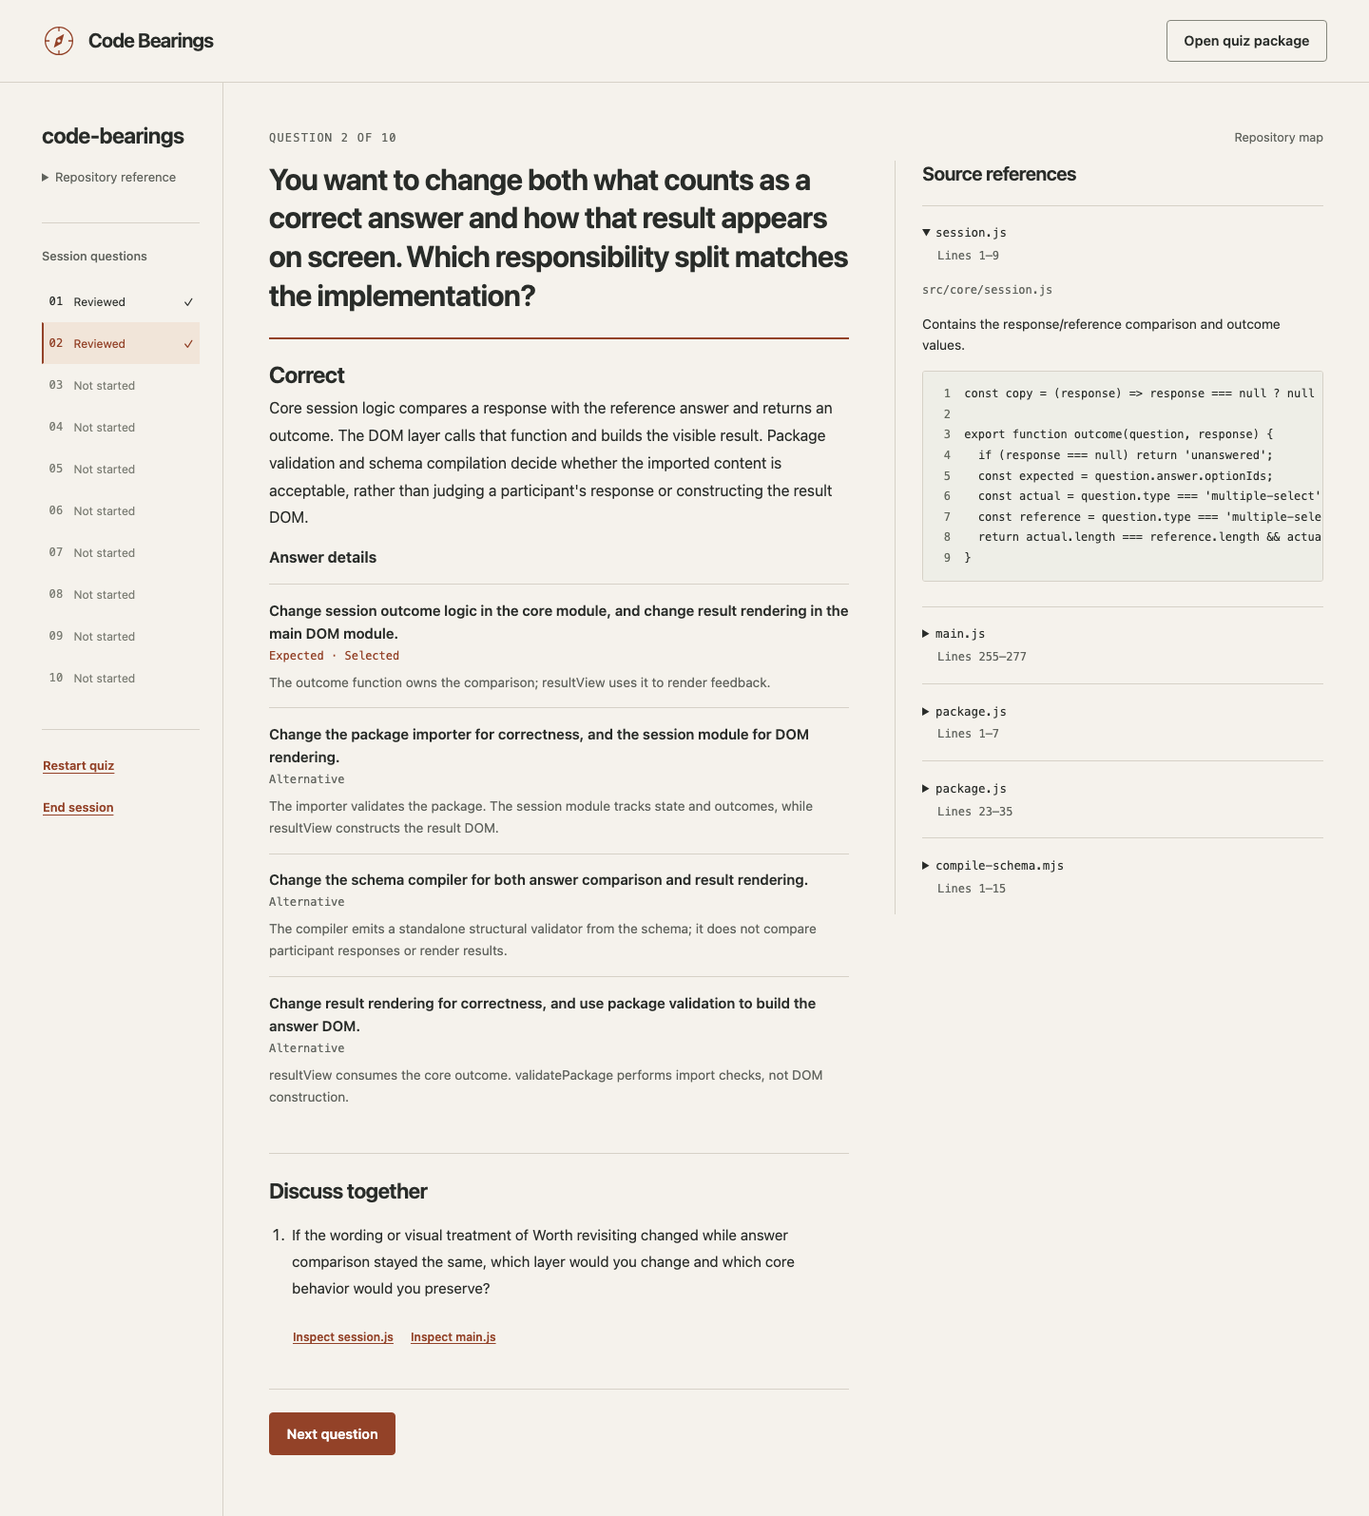
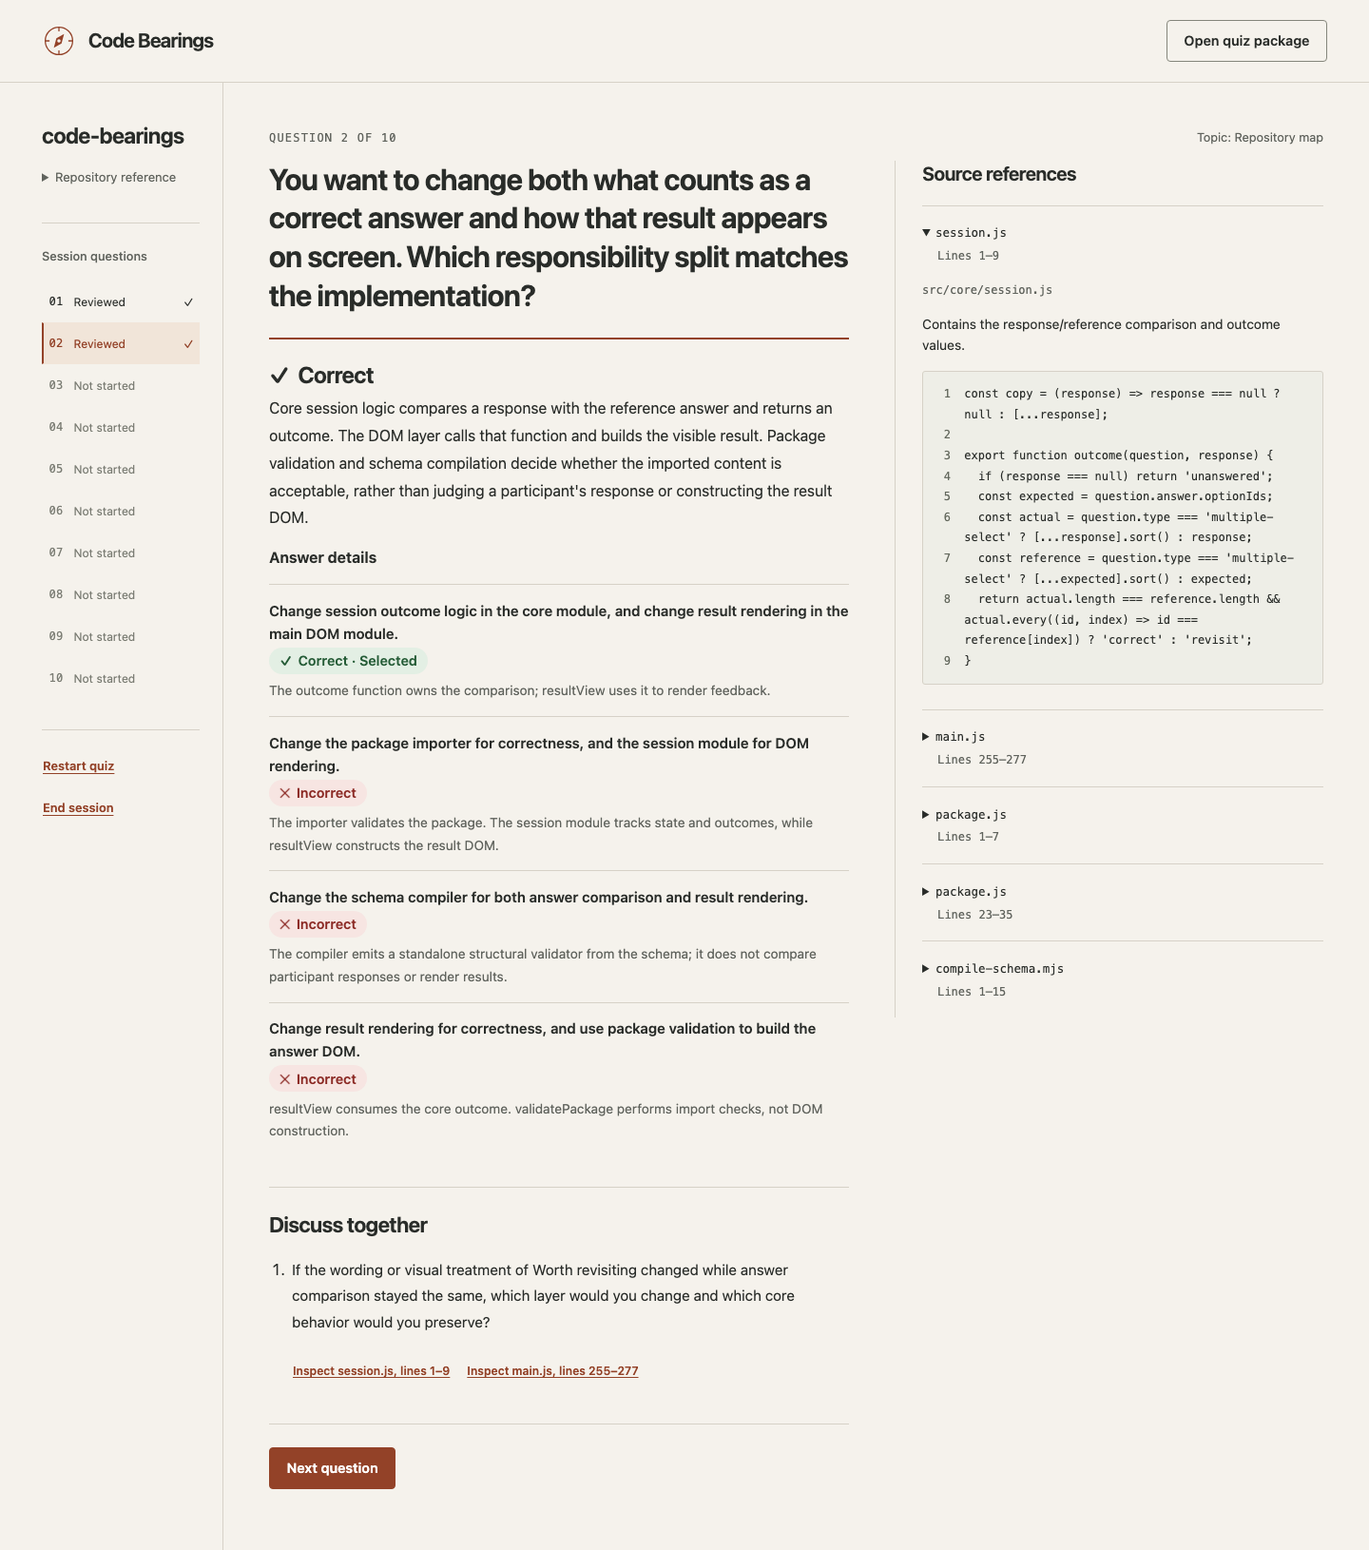
Improve quiz feedback, source readability, and preparation output

diff --git a/tests/browser/viewer.spec.js b/tests/browser/viewer.spec.js
@@ -20,6 +20,7 @@ async function openFixture(page) {
 async function start(page) {
   await openFixture(page);
   await page.getByRole('button', { name: 'Start quiz', exact: true }).click();
+  await expect(page.locator('.concept-label')).toHaveText('Topic: Component responsibilities');
 }
 async function choose(page, question, ids = question.answer.optionIds) {
   if (question.type === 'single-choice') {
@@ -63,7 +64,10 @@ test('answer each question directly, then inspect evidence and complete the reca
   await choose(page, fixture.payload.questions[0], ['view']);
   await expect(page.locator('.source-panel')).toHaveCount(0);
   await page.getByRole('button', { name: 'Reveal answer', exact: true }).click();
-  await expect(page.getByRole('heading', { name: 'Worth revisiting', exact: true })).toBeVisible();
+  await expect(page.getByRole('heading', { name: 'Incorrect', exact: true })).toBeVisible();
+  await expect(page.locator('#answer-heading')).toBeFocused();
+  await expect(page.locator('#announcements')).toHaveText('Answer revealed. Incorrect.');
+  await expect(page.locator('.answer-label')).toHaveText(['✕ Incorrect · Selected', '✓ Correct · Not selected', '✕ Incorrect']);
   await expect(page.getByRole('heading', { name: 'Source references', exact: true })).toBeVisible();
   await expect(page.locator('.answer-explanation')).toHaveText(fixture.payload.questions[0].answer.explanation);
   await expect(page.locator('.question-workspace')).not.toContainText('false');
@@ -95,7 +99,7 @@ test('answer each question directly, then inspect evidence and complete the reca
   await expect(page.getByRole('heading', { name: /overall score|percentage|leaderboard/i })).toHaveCount(0);
   await page.locator('.recap-question').first().locator('summary').click();
   await expect(page.getByText(fixture.payload.questions[0].discussion[0].prompt, { exact: true })).toBeVisible();
-  await expect(page.locator('.recap-question').first().locator('.recap-outcome')).toHaveText('Worth revisiting');
+  await expect(page.locator('.recap-question').first().locator('.recap-outcome')).toHaveText('Incorrect');
   await expect(page.locator('.recap-question').nth(1).locator('.recap-outcome')).toHaveText('Not answered');
   await page.screenshot({ path: 'test-results/screenshots/recap-desktop.png', fullPage: true });
   await accessibility(page);
@@ -113,6 +117,8 @@ test('history navigation preserves drafts and sources, and an unsure final answe
   await page.getByRole('button', { name: 'I’m not sure', exact: true }).click();
   await expect(page.locator('#answer-heading')).toBeFocused();
   await expect(page.locator('#announcements')).toHaveText('Answer revealed. Not answered.');
+  await expect(page.locator('.answer-label')).toHaveText(['✕ Incorrect', '✓ Correct', '✕ Incorrect']);
+  await expect(page.locator('#answer-heading [aria-hidden]')).toHaveCount(0);
   await page.getByText('store.js', { exact: true }).click();
   await page.getByRole('button', { name: 'Next question', exact: true }).click();
   const selected = fixture.payload.questions[1].options[0];
@@ -137,6 +143,62 @@ test('history navigation preserves drafts and sources, and an unsure final answe
   await expect(page.locator('#page-title')).toHaveText('Learning recap');
   await expect(page.locator('#page-title')).toBeFocused();
   await expect(page.locator('.recap-outcome')).toHaveText(fixture.payload.questions.map(() => 'Not answered'));
+});
+
+test('multiple-select feedback distinguishes selected, missed, and incorrect options', async ({ page }) => {
+  await start(page);
+  await choose(page, fixture.payload.questions[0]);
+  await page.getByRole('button', { name: 'Reveal answer', exact: true }).click();
+  await expect(page.locator('.answer-label')).toHaveText(['✕ Incorrect', '✓ Correct · Selected', '✕ Incorrect']);
+  await page.getByRole('button', { name: 'Next question', exact: true }).click();
+  await choose(page, fixture.payload.questions[1], ['loader', 'website']);
+  await page.getByRole('button', { name: 'Reveal answer', exact: true }).click();
+  await expect(page.getByRole('heading', { name: 'Incorrect', exact: true })).toBeVisible();
+  await expect(page.locator('.answer-label')).toHaveText([
+    '✓ Correct · Selected', '✓ Correct · Not selected', '✓ Correct · Not selected', '✕ Incorrect · Selected',
+  ]);
+  await accessibility(page);
+});
+
+test('long source lines wrap without losing indentation, blank lines, or line numbers', async ({ page }) => {
+  // Synthetic evidence exercises prose, code, and an unbroken token; no real review is claimed.
+  const wrapped = structuredClone(fixture);
+  const source = wrapped.payload.sources[0];
+  const lines = [
+    '// ' + 'A long source explanation with words to wrap. '.repeat(12),
+    '    const value = "' + 'x'.repeat(240) + '";',
+    '',
+    '\treturn value;',
+  ];
+  source.code = lines.join('\n');
+  source.endLine = source.startLine + lines.length - 1;
+  wrapped.verification.reviewedPayloadSha256 = await payloadDigest(wrapped.payload);
+  await page.locator('#package-file').setInputFiles({ name: 'wrapped.quiz.json', mimeType: 'application/json', buffer: Buffer.from(JSON.stringify(wrapped)) });
+  await page.getByRole('button', { name: 'Start quiz', exact: true }).click();
+  await page.getByRole('button', { name: 'I’m not sure', exact: true }).click();
+  const details = page.locator('#question-source-store-source');
+  await details.locator('summary').click();
+  expect(await details.locator('.line-text').allTextContents()).toEqual(lines);
+  await expect(details.locator('.line-number')).toHaveText(['1', '2', '3', '4']);
+  for (const width of [1440, 640, 320]) {
+    await page.setViewportSize({ width, height: 1000 });
+    const sizes = await details.locator('pre').evaluate((pre) => ({
+      scroll: pre.scrollWidth, client: pre.clientWidth,
+      pageScroll: document.documentElement.scrollWidth, viewport: innerWidth,
+      lineHeight: parseFloat(getComputedStyle(pre).lineHeight),
+      wrappedHeight: pre.querySelector('.line-text').getBoundingClientRect().height,
+    }));
+    expect(sizes.scroll).toBeLessThanOrEqual(sizes.client);
+    expect(sizes.pageScroll).toBeLessThanOrEqual(sizes.viewport);
+    expect(sizes.wrappedHeight).toBeGreaterThan(sizes.lineHeight);
+  }
+  await page.setViewportSize({ width: 640, height: 1000 });
+  await page.addStyleTag({ content: 'html { font-size: 200%; }' });
+  expect(await details.locator('pre').evaluate((pre) => pre.scrollWidth <= pre.clientWidth)).toBe(true);
+  expect(await page.evaluate(() => document.documentElement.scrollWidth <= innerWidth)).toBe(true);
+  expect(await details.locator('.line-text').allTextContents()).toEqual(lines);
+  await accessibility(page);
+  await page.screenshot({ path: 'test-results/screenshots/wrapped-source-enlarged.png', fullPage: true });
 });
 
 test('file import, rejected replacement, and explicit replacement confirmation preserve session state', async ({ page }) => {

diff --git a/src/main.js b/src/main.js
@@ -291,11 +291,13 @@ function orderList(question, record) {
   });
   return list;
 }
-const outcomeLabel = (value) => value === 'correct' ? 'Correct' : value === 'unanswered' ? 'Not answered' : 'Worth revisiting';
+const outcomeLabel = (value) => value === 'correct' ? 'Correct' : value === 'unanswered' ? 'Not answered' : 'Incorrect';
+const correctnessIcon = (correct) => el('span', { class: 'correctness-icon', 'aria-hidden': 'true' }, correct ? '✓ ' : '✕ ');
 function resultView(question, record) {
   const result = outcome(question, record.response);
   const section = el('section', { class: `answer-section ${result}`, 'aria-labelledby': 'answer-heading' },
-    el('div', { class: 'outcome-heading' }, el('h2', { id: 'answer-heading', tabindex: '-1' }, outcomeLabel(result))),
+    el('div', { class: 'outcome-heading' }, el('h2', { id: 'answer-heading', tabindex: '-1' },
+      result !== 'unanswered' && correctnessIcon(result === 'correct'), outcomeLabel(result))),
     el('p', { class: 'answer-explanation' }, question.answer.explanation));
   const order = question.type === 'ordering' ? question.answer.optionIds : question.options.map((option) => option.id);
   const answerList = el(question.type === 'ordering' ? 'ol' : 'ul', { class: 'answer-list' });
@@ -304,9 +306,13 @@ function resultView(question, record) {
     const expected = question.answer.optionIds.includes(id);
     const chosen = record.response?.includes(id);
     const feedback = question.answer.optionFeedback.find((item) => item.optionId === id);
+    let selectionLabel = '';
+    if (chosen) selectionLabel = ' · Selected';
+    else if (expected && record.response) selectionLabel = ' · Not selected';
     answerList.append(el('li', { class: expected ? 'expected' : '' },
       el('div', { class: 'answer-option' }, el('strong', {}, option.text),
-        question.type !== 'ordering' && el('span', { class: 'answer-label' }, expected ? (chosen ? 'Expected · Selected' : 'Expected answer') : chosen ? 'Selected · Reconsider' : 'Alternative')),
+        question.type !== 'ordering' && el('span', { class: 'answer-label' },
+          correctnessIcon(expected), expected ? 'Correct' : 'Incorrect', selectionLabel)),
       el('p', {}, feedback.explanation)));
   }
   section.append(el('h3', {}, question.type === 'ordering' ? 'Reference sequence' : 'Answer details'), answerList);
@@ -323,7 +329,7 @@ function sourceDetail(source, record, reason, prefix) {
   if (reason) details.append(el('p', { class: 'source-reason' }, reason));
   const code = el('code');
   source.code.split('\n').forEach((line, index) => code.append(el('span', { class: 'code-line' },
-    el('span', { class: 'line-number', 'aria-hidden': 'true' }, source.startLine + index), el('span', { class: 'line-text' }, line || ' '))));
+    el('span', { class: 'line-number', 'aria-hidden': 'true' }, source.startLine + index), el('span', { class: 'line-text' }, line))));
   details.append(el('pre', { tabindex: '0', 'aria-label': `${source.path}, lines ${source.startLine} through ${source.endLine}` }, code));
   if (source.url) details.append(el('a', { class: 'source-link', href: source.url, target: '_blank', rel: 'noopener noreferrer', 'aria-label': `Open ${source.path} at this commit (opens in new tab)` }, 'Open at this commit ↗'));
   details.addEventListener('toggle', () => {
@@ -366,7 +372,7 @@ function questionView(main) {
   const concepts = question.conceptIds.map((id) => quiz.payload.learning.coverage.find((item) => item.id === id).title);
   main.append(el('div', { class: 'question-topline' },
     el('p', { class: 'eyebrow' }, `Question ${session.viewIndex + 1} of ${session.records.length}`),
-    el('p', { class: 'concept-label' }, concepts[0])));
+    el('p', { class: 'concept-label' }, `Topic: ${concepts[0]}`)));
   const layout = el('div', { class: `question-layout ${record.phase === 'attempt' ? 'attempt-layout' : ''}` });
   const work = el('div', { class: 'question-workspace' }, el('h1', { id: 'page-title', tabindex: '-1' }, question.prompt));
   if (record.phase === 'revealed') work.append(resultView(question, record), discussionView(question));

diff --git a/src/styles.css b/src/styles.css
@@ -12,6 +12,10 @@
     --line: #d6d1c7;
     --control-line: #85867c;
     --source: #eeeee7;
+    --correct: #245b36;
+    --correct-soft: #e3efe4;
+    --incorrect: #8b2924;
+    --incorrect-soft: #f7e5e2;
     --sans: -apple-system, BlinkMacSystemFont, 'Segoe UI', sans-serif;
     --mono: ui-monospace, 'SFMono-Regular', Consolas, monospace;
     color: var(--ink);
@@ -145,12 +149,13 @@
   .source-path { font-family: var(--mono); font-size: .75rem; color: var(--muted); overflow-wrap: anywhere; line-height: 1.8; margin: .8rem 0; }
   .source-reason { font-size: .87rem; margin: .8rem 0; }
   .source-detail pre { max-height: 30rem; overflow: auto; background: var(--source); border: 1px solid var(--line); padding: .8rem 0; border-radius: 3px; font-size: .75rem; line-height: 1.8; margin: 1rem 0 .7rem; tab-size: 2; }
-  .code-line { display: grid; grid-template-columns: 2.7rem minmax(0, 1fr); min-width: 100%; width: max-content; padding-right: 1rem; }
+  .code-line { display: grid; grid-template-columns: 2.7rem minmax(0, 1fr); width: 100%; padding-right: 1rem; }
   .line-number { text-align: right; padding-right: .9rem; color: #64695e; user-select: none; }
-  .line-text { white-space: pre; }
+  .line-text { white-space: pre-wrap; overflow-wrap: anywhere; min-width: 0; }
   .source-link { font-size: .76rem; display: inline-flex; align-items: center; min-height: 32px; }
   .answer-section { border-top: 2px solid var(--accent); padding-top: 1.3rem; margin-top: 1.5rem; }
   .outcome-heading h2 { font-size: 1.5rem; margin-bottom: .3rem; }
+  .correctness-icon { margin-right: .2em; }
   .answer-explanation { font-size: 1rem; line-height: 1.8; }
   .answer-list { padding: 0; list-style: none; margin: 1rem 0; }
   ol.answer-list { list-style: decimal; padding-left: 1.3rem; }
@@ -158,8 +163,8 @@
   .answer-list p { font-size: .86rem; color: var(--muted); margin: .4rem 0 0; line-height: 1.7; }
   .answer-option { display: flex; flex-direction: column; gap: .2rem; }
   .answer-option strong { font-size: .94rem; font-weight: 600; }
-  .answer-label { font-family: var(--mono); font-size: .75rem; color: var(--muted); }
-  .expected .answer-label { color: var(--accent); }
+  .answer-label { align-self: flex-start; max-width: 100%; padding: .2rem .7rem; border-radius: 999px; font-size: .9rem; font-weight: 600; line-height: 1.5; overflow-wrap: anywhere; color: var(--incorrect); background: var(--incorrect-soft); }
+  .expected .answer-label { color: var(--correct); background: var(--correct-soft); }
   .response-summary { font-size: .85rem; color: var(--muted); line-height: 1.8; }
   .discussion-section { margin-top: 2rem; padding-top: 1.5rem; border-top: 1px solid var(--line); }
   .discussion-section ol { padding-left: 1.3rem; }

diff --git a/skills/code-bearings-quiz/references/preparation.md b/skills/code-bearings-quiz/references/preparation.md
@@ -56,6 +56,8 @@ Record the actual verifier identity and preserve the solutions with the preparat
 
 After independent solutions are recorded and returned, resume or message that same verifier with the complete candidate payload and the package contract. Require the verifier to compare its solutions, inspect each alternative, check exact source excerpts/ranges, explanations, and discussion premises, and report any disagreement or unsupported claim.
 
+Also check that participant wording explains the code without unnecessary preparation or revision jargon. Report confusing terms for revision before finalizing the payload.
+
 If the host cannot resume or contact the verifier, report incomplete preparation and the actual limitation. A replacement verifier must finish a fresh blind-only invocation and return its written solutions before receiving the candidate. Do not merge blind solving and review into one request to work around missing transcripts. In CLI/print-mode tests, retain the session state required by the host's subagent resume mechanism.
 
 If content is revised, the verifier must review the revised exact payload. Questions with material prompt changes need a fresh blind-solve pass in a new verifier context; do not reuse a prior answer as independent evidence for a different question. Resolve every finding through revision and review or exclude the question and record why. After at most two revision rounds, return incomplete preparation if unresolved findings remain; a user can explicitly request another attempt.
@@ -77,7 +79,9 @@ The exported tools need Node.js 22.12 or newer and Git for source comparison, wi
 
 Both commands must succeed before delivering a playable package. If a required tool cannot run, report incomplete preparation and the unperformed check. The original `npm run validate-package -- <package path>` remains available from a Code Bearings checkout.
 
-Return the `.quiz.json` package with companion `<name>.preparation.md` and `<name>.independent-solutions.json` files in the resolved private destination. Do not overwrite existing files. The report identifies revision and fetchability, coverage/exclusions, verifier identity, independent-solving evidence, changes and dropped questions, validation/source-comparison results, and any unperformed checks. An agent-checked pilot does not establish actual session duration, learning effectiveness, browser compatibility, or accessibility.
+Keep the playable `<name>.quiz.json` directly in the resolved private destination. From the start of preparation, write supporting files into a sibling `<name>.review/` directory: the preparation report, independent solutions, candidate payload, coverage notes, review records, and any locally written logs. Preserve host-managed session state where the host requires it. Honor an explicitly requested output layout and do not overwrite existing files or reuse another run's review directory. This keeps the quiz easy to find in the file picker while preserving its review evidence.
+
+Return the playable file first, followed by links to the preparation report and independent solutions inside the review directory. The report identifies revision and fetchability, coverage/exclusions, verifier identity, independent-solving evidence, changes and dropped questions, validation/source-comparison results, and any unperformed checks. An agent-checked pilot does not establish actual session duration, learning effectiveness, browser compatibility, or accessibility.
 
 ## Coding-agent compatibility
 

diff --git a/README.md b/README.md
@@ -86,7 +86,7 @@ Save it to ~/quizzes/.
 
 A change set can also be a merge commit or a squashed commit that has already landed. Questions focus on what the range introduced or modified and how it connects to existing code; excerpts come from the head commit, and the package records the base commit too. Change-set quizzes default to **already working in the repo**.
 
-The agent creates the questions, asks a fresh verifier subagent to solve them from source before seeing the answer key, then has that verifier review the complete package. Preparation is incomplete if independent verification or required checks cannot run. The agent returns a `.quiz.json` file plus preparation and independent-solution records. Open the finalized quiz in the viewer; keep packages for private repositories and their supporting records in a private destination.
+The agent creates the questions, asks a fresh verifier subagent to solve them from source before seeing the answer key, then has that verifier review the complete package. Preparation is incomplete if independent verification or required checks cannot run. The agent returns a `.quiz.json` file, with supporting preparation and review records in a separate `<name>.review/` folder. Open the `.quiz.json` file in the viewer; keep packages for private repositories and their supporting records in a private destination.
 
 Once installed, the exported skill’s tools need **Node.js 22.12 or newer and Git**, with no npm dependencies or viewer checkout. See the [skill instructions](skills/code-bearings-quiz/SKILL.md), [preparation protocol](skills/code-bearings-quiz/references/preparation.md), and [package contract](skills/code-bearings-quiz/references/package-contract.md) for details.
 

diff --git a/skills/code-bearings-quiz/SKILL.md b/skills/code-bearings-quiz/SKILL.md
@@ -28,6 +28,8 @@ State the resolved scope, repository, branch/full SHA, change-set range and focu
 
 ## Prepare and verify
 
+Keep the playable file easy to find: use the [preparation protocol's output layout](references/preparation.md#5-finalize-and-report), with supporting records in a separate review directory from the start.
+
 Read the [preparation protocol](references/preparation.md), [package contract](references/package-contract.md), and [v1 schema](../../schema/quiz-package-v1.schema.json). Resolve resources relative to this skill's actual directory, independent of the user's working directory.
 
 Check early that Git, Node.js 22.12 or newer, and the bundled tools are available, and that a fresh independent subagent can run and inspect the committed source. If a requirement is unavailable, report incomplete preparation; never invent an agent identity, successful review, or self-review fallback. This request authorizes the protocol's verification delegation, subject to the environment's actual tool and permission availability.

diff --git a/skills/code-bearings-quiz/references/change-set.md b/skills/code-bearings-quiz/references/change-set.md
@@ -57,6 +57,8 @@ What questions, explanations, and discussion may claim:
 
 Avoid questions about commit counts, authorship, or whether code was AI-generated; Git history does not establish the last.
 
+Use participant language for the selected version: “after this change,” “this version,” or simply the named behavior. Avoid unexplained phrases such as “head revision” and “head calculation” in questions, explanations, and discussion. Keep precise base/head terminology in provenance and preparation records; use it in teaching content only when Git revisions are themselves the topic, explaining the terms when needed.
+
 All excerpts, filenames, and line numbers come from head. Omit the optional `explorationSourceIds` field. Keep a private coverage table that maps each question to the affected behavior, the changed paths it depends on, and any unchanged context it uses.
 
 ## Verify
